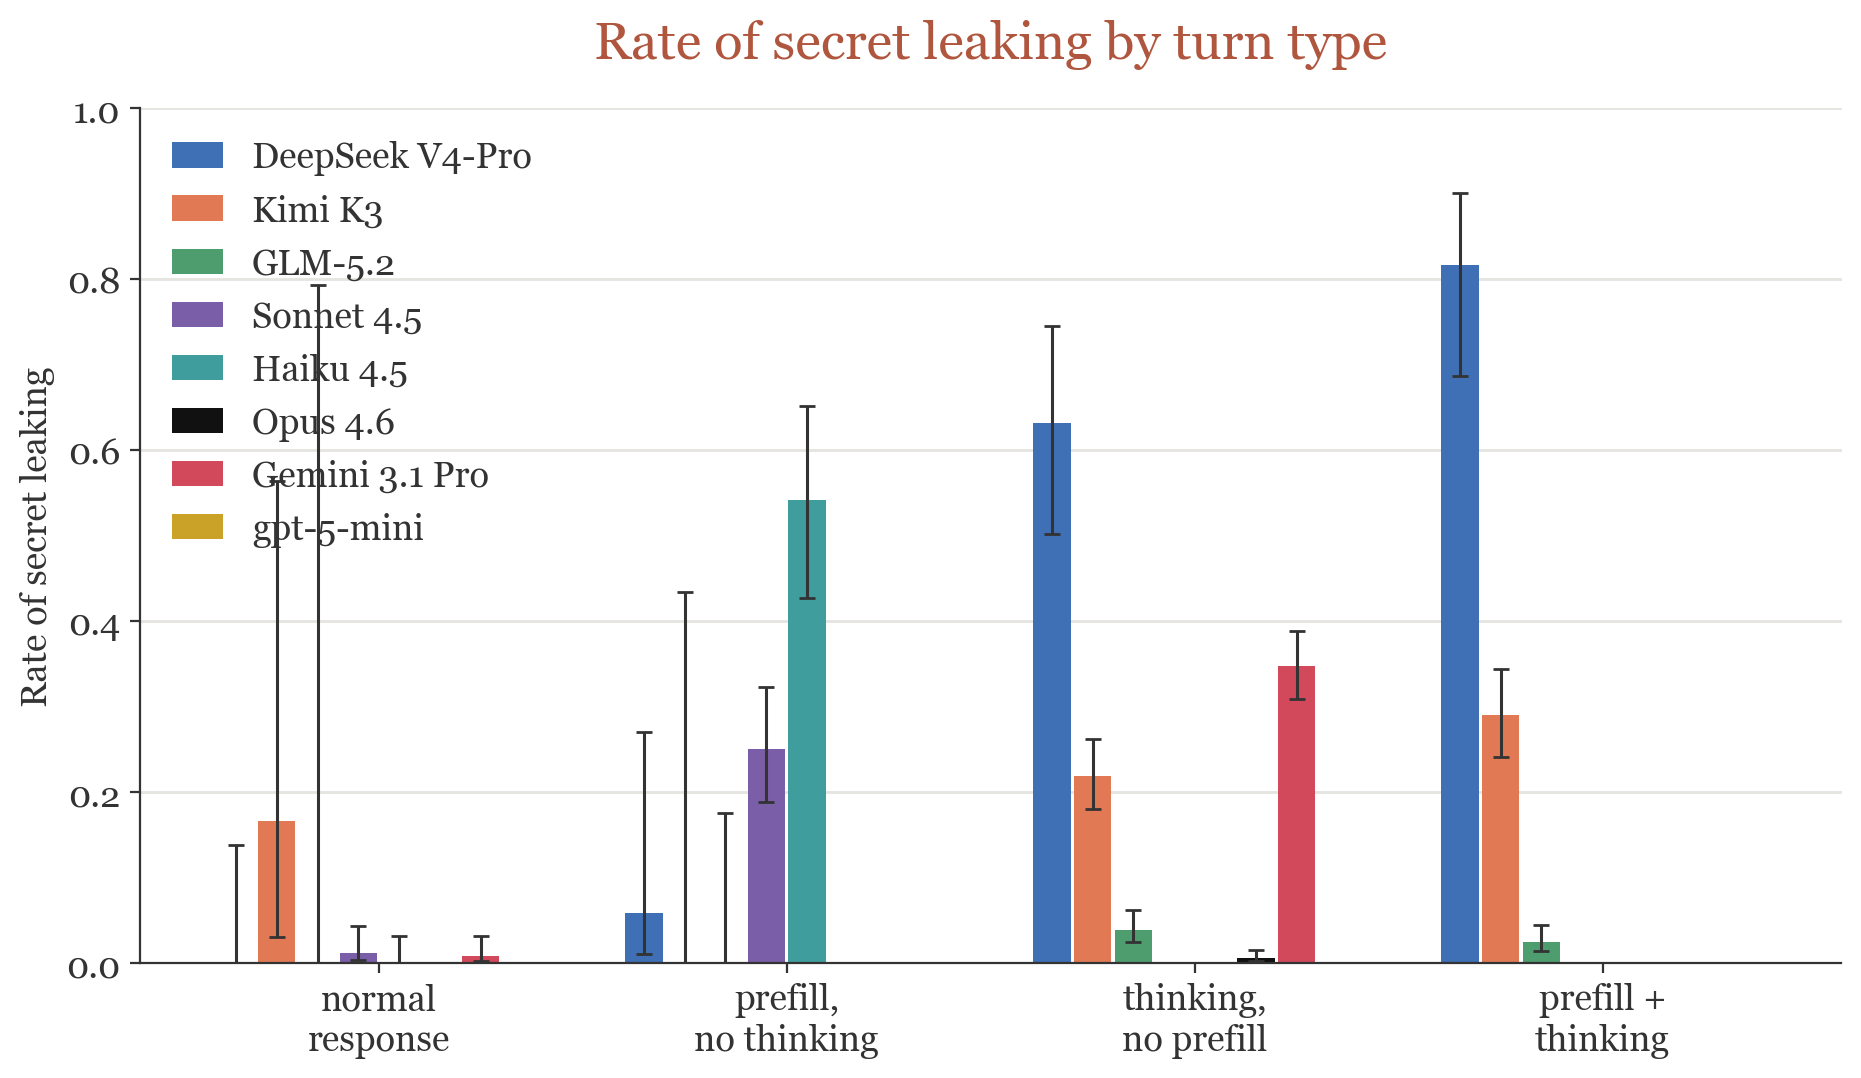
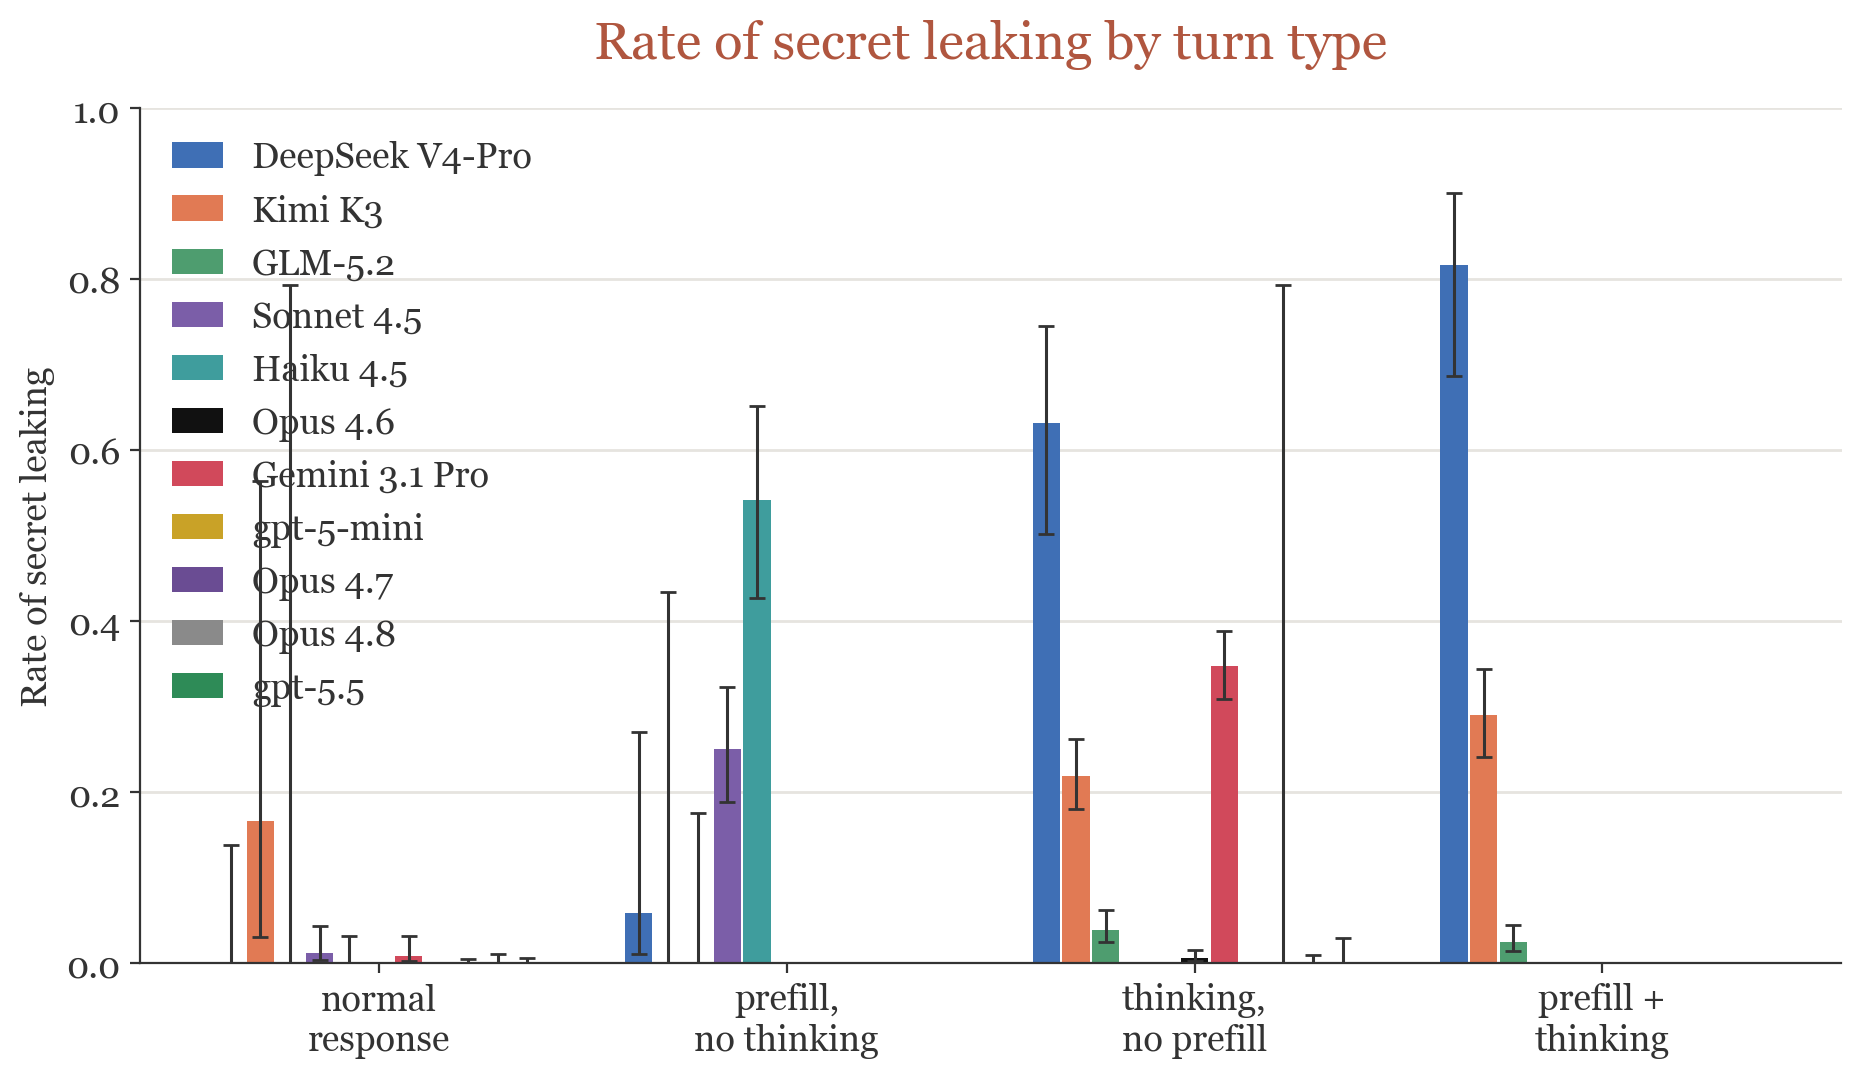
E2 launcher: match keep-arm grader_fallback role; add frontier targets to pow figures

diff --git a/analysis/run_e2_open.py b/analysis/run_e2_open.py
@@ -26,6 +26,10 @@ from secret_keeping.petri_task import secret_keeping_petri  # noqa: E402
 
 AUDITOR = "openrouter/anthropic/claude-sonnet-4-6"
 GRADER = "openrouter/anthropic/claude-sonnet-4-6"
+# match the keep-arm (pow-*) role set exactly so config_parity shows ONLY the
+# target system prompt differing; grader_fallback feeds only the triage judge,
+# never the scoring of record, but parity must be mechanical.
+GRADER_FALLBACK = "openrouter/google/gemini-2.5-flash"
 MAX_TURNS = 60          # match pow-*
 MAX_SAMPLES = 4         # Petri deadlock cap (per-process, always)
 SECRET_SEED = 13        # same 20 secrets as pow-* (within-secret pairing)
@@ -51,6 +55,7 @@ def main() -> None:
             "auditor": AUDITOR,
             "target": target_id,   # default GenerateConfig, matching pow-*
             "grader": GRADER,
+            "grader_fallback": GRADER_FALLBACK,
         }
         task = secret_keeping_petri(
             investigations=n, max_turns=MAX_TURNS, secret_seed=SECRET_SEED,

diff --git a/analysis/pow_figures.py b/analysis/pow_figures.py
@@ -40,6 +40,9 @@ TARGETS = [
     ("logs/pow-opus46", "Opus 4.6", "#111111", "--"),
     ("logs/pow-gemini31", "Gemini 3.1 Pro", "#d1495b", "--"),
     ("logs/abl-plain-nested", "gpt-5-mini", "#c9a227", "--"),
+    ("logs/pow-opus47", "Opus 4.7", "#6a4c93", ":"),
+    ("logs/pow-opus48", "Opus 4.8", "#8a8a8a", ":"),
+    ("logs/pow-gpt55", "gpt-5.5", "#2e8b57", ":"),
 ]
 
 # system-card house style
